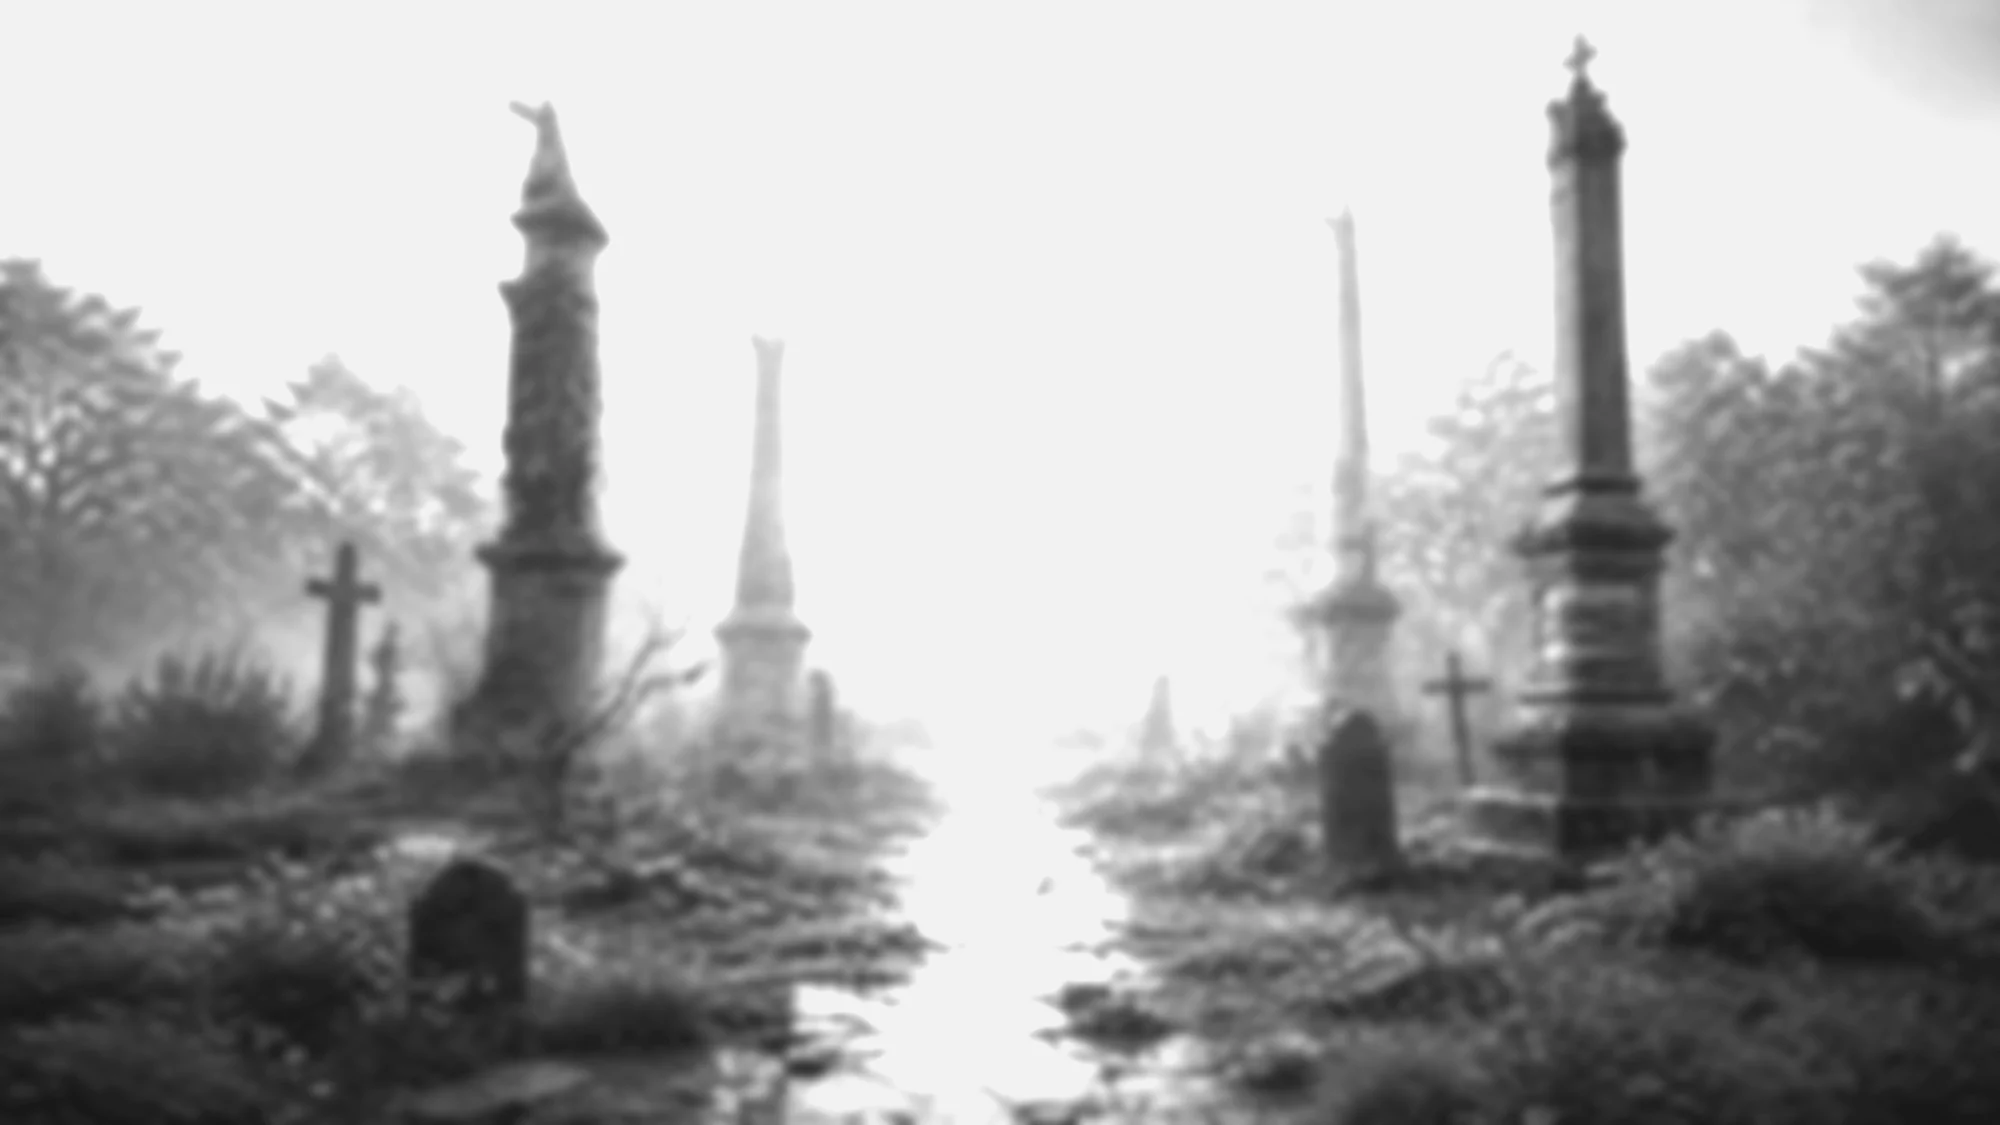
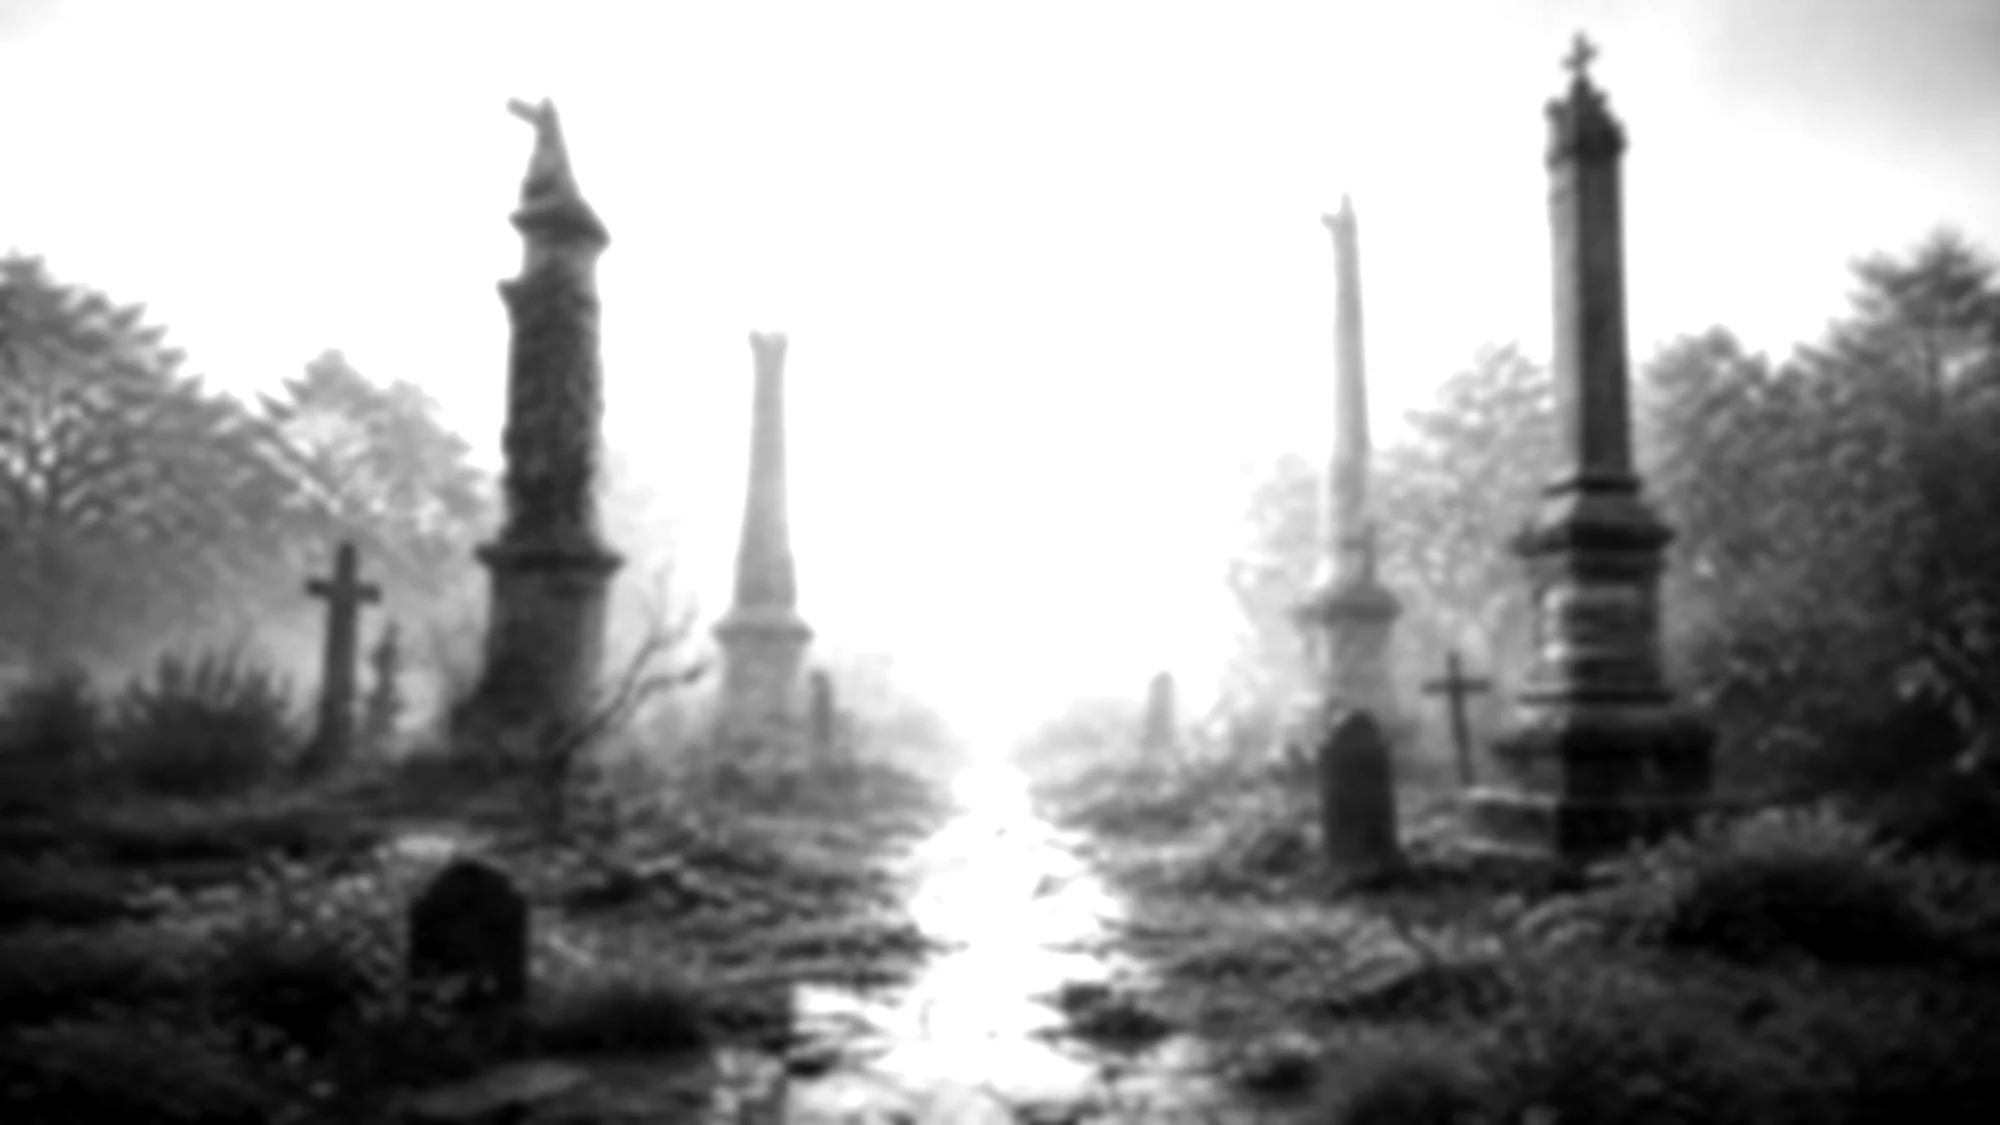
En blanco: las mezclas al reves, y el fondo sin doble graduacion
Por que en blanco no se movia nada. No estaba roto: era invisible por
construccion. Los tres efectos que hacen vivo al campo usan mezclas que solo
funcionan sobre fondo oscuro.

  la luz del raton, con soft-light: sobre blanco, soft-light casi no altera nada
  la niebla, con alpha blanca: blanca sobre blanco, nada
  el barrido del clic, un degradado blanco: blanco sobre blanco, nada
  el halo, con screen: igual

En claro cada uno lleva su mezcla al reves. En vez de una luz mas brillante —que
sobre blanco no existe— una sombra suave que va con el cursor.

El fondo blanco era otra cosa: .fondo llevaba filter: brightness(0.82) en la
regla base, que se aplicaba tambien en claro y oscurecia una imagen que el script
ya habia aclarado. Doble graduacion. Ahora es none en claro.

Y el cementerio sube a 1.40 con contraste 1.04 en vez de 1.62 con 0.86, que lo
dejaba en casi blanco sin mausoleos: se perdia justo lo unico que le daba
estructura.

De paso, avisarCambio() ponia la opacidad de la luz en linea, y lo en linea se
come la regla del CSS: en claro se quedaba en 0.35 sin importar lo que dijera el
CSS. Dos sitios controlando la misma propiedad. Ahora solo el CSS.

Lo que NO se ha podido comprobar: que la luz siga al cursor en blanco. Aqui
requestAnimationFrame corre a DOS fotogramas por segundo, asi que en una captura
no se ve moverse nada. Si se ha comprobado que el manejador se dispara, que la
transformada se pone y que la mezcla es multiply.

diff --git a/assets/style.css b/assets/style.css
@@ -193,7 +193,10 @@ html.claro .ic-luna { opacity: 0; transform: rotate(70deg) scale(0.6); }
 /* ── Las cuatro capas. La caja (#capas) las mide capa.js ─────────────────── */
 
 .fondo  { background-image: url("fondo-oscuro.webp");
-          filter: brightness(0.78) contrast(1.02); }
+          /* El fondo-oscuro.webp ya viene graduado por el script. Este filtro era
+             una segunda graduacion encima, y se aplicaba tambien en claro, donde
+             ya hacia falta menos todavia. En claro se anula. */
+          filter: brightness(0.82) contrast(1.02); }
 .angel  { background-image: url("angel-oscuro.webp");
           /* Sin luz alrededor: un drop-shadow hielo de 14 px salia como un filo
              claro pegado a las alas, y no era la foto, era mio. */
@@ -245,6 +248,8 @@ html.claro .fondo    { background-image: url("fondo-claro.webp"); }
 html.claro .angel    { background-image: url("angel-claro.webp"); }
 html.claro .frente   { background-image: url("frente-claro.webp"); }
 html.claro .respaldo { background-image: url("fondo-claro.webp"); }
+html.claro .fondo { filter: none; }
+html.claro .respaldo { filter: blur(26px) contrast(0.94); }
 
 /* Y la pagina entera se da la vuelta. Si solo las imagenes cambiaran, el texto
    claro se pondria sobre fondo claro y no se leeria. */
@@ -278,7 +283,30 @@ html.claro .motas { opacity: 0.55; }
 
 /* En claro el velo va con menos presencia: el fondo ya es claro y la niebla
    blanca se perderia. */
-html.claro .velo { opacity: 0.2; }
+
+/* ── Lo que en blanco hay que cambiar de verdad ───────────────────────────
+   Los tres efectos que hacen vivo al campo —la luz que sigue al raton, la
+   niebla y el barrido del clic— estaban hechos con mezclas que solo funcionan
+   sobre fondo oscuro:
+
+     · la luz, con soft-light: sobre blanco, soft-light casi no altera nada, y
+       mover el cursor no se notaba de nada
+     · la niebla, con alpha blanca: blanca sobre blanco, nada
+     · el barrido del clic, un degradado blanco: blanco sobre blanco, nada
+     · el halo, con screen: igual
+
+   No estaban rotos: eran invisibles por construccion. En claro cada uno lleva
+   su mezcla al reves. Con multiply sobre fondo claro, un color gris SI oscurece,
+   y eso es lo que hace falta: no una luz mas brillante, sino una sombra suave
+   que va con el cursor. */
+html.claro .luz { mix-blend-mode: multiply; opacity: 0.55;
+                 background: radial-gradient(closest-side,
+                   rgba(104, 124, 140, 0.8), transparent 76%); }
+html.claro .velo { mix-blend-mode: multiply; opacity: 0.32; }
+html.claro .halo { mix-blend-mode: multiply; opacity: 0.45; }
+html.claro .brillo {
+  background: linear-gradient(105deg, transparent 42%,
+              rgba(24, 28, 32, 0.18) 50%, transparent 58%); }
 
 /* El halo de la cabeza. Su color es el termometro. */
 .halo { position: absolute; z-index: 3; pointer-events: none; border-radius: 50%;

diff --git a/assets/capa.js b/assets/capa.js
@@ -225,10 +225,15 @@
       colocarHalo(geo);
     }
 
-    // Cambiar de version cambia el punto del halo, asi que hay que recolocarlo.
+    // Cambiar de tema cambia el punto del halo, asi que hay que recalcularlo.
+    //
+    // Solo eso. Antes ademas ponia aqui la opacidad de la luz del raton, y como
+    // era en linea se comia la regla del CSS: en claro se quedaba en 0.35, que
+    // es lo que decia el comentario de aqui, y no lo que decia el CSS. Con dos
+    // sitios controlando la misma propiedad, gana el en linea. Ahora lo pone el
+    // CSS y aqui no se toca.
     function avisarCambio() {
       medir();
-      if (luz) luz.style.opacity = document.documentElement.classList.contains("claro") ? "0.35" : "0.7";
     }
     medir();
     addEventListener("resize", medir);

diff --git a/scripts/preparar-angel.py b/scripts/preparar-angel.py
@@ -60,7 +60,7 @@ HALO = {
 
 # Cuanto sube o baja el cementerio. Sin esto los dos temas son el mismo gris con
 # distinta brillantez, y no se nota el cambio.
-SUBIDA_CLARO = 1.62
+SUBIDA_CLARO = 1.40
 BAJADA_OSCURO = 0.46
 
 
@@ -140,8 +140,12 @@ def cemetery(ruta, claro):
     f = grises(abrir(ruta))
     f = f.filter(ImageFilter.GaussianBlur(5.0))          # profundidad de campo
     if claro:
+        # Ni tan lavado ni tan apagado. A 1.62 con contraste 0.86 el cementerio
+        # se iba a casi blanco y se perdian los mausoleos, que es lo unico que
+        # le daba estructura. Aqui se quedan: la pagina es clara, pero la foto
+        # tiene que seguir teniendo fondo.
         f = ImageEnhance.Brightness(f).enhance(SUBIDA_CLARO)
-        f = ImageEnhance.Contrast(f).enhance(0.86)         # las altas se lavan
+        f = ImageEnhance.Contrast(f).enhance(1.04)
     else:
         f = ImageEnhance.Brightness(f).enhance(BAJADA_OSCURO)
         f = ImageEnhance.Contrast(f).enhance(1.12)
